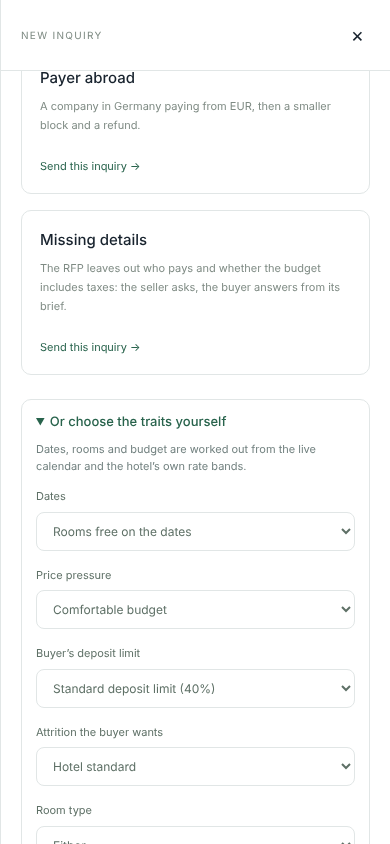
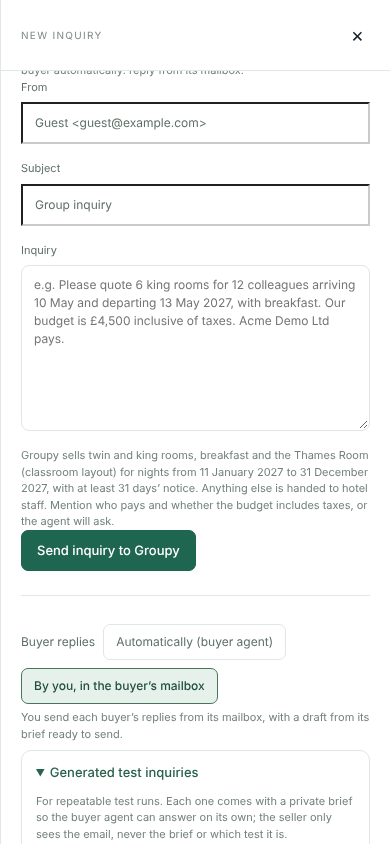
New inquiry: write your own first, fold presets, drop the traits form
The New inquiry drawer led with generated presets and a hand-picked traits
form ("dates too soon", "below the seller's floor"), which reads as if the
outcome were scripted. The seller never sees the preset or the buyer's
brief, but the layout didn't say so.

- "Write your own" is now first and open, labelled as the unscripted path.
- Buyer replies follows it (it also applies to the scenario buyers).
- The presets are folded under "Generated test inquiries", which explains
  that the brief is only for the buyer agent and the seller sees only the
  email.
- The "Or choose the traits yourself" form is removed from the UI. The API
  still accepts traits for scripted runs and tests.

ui/test/openflow.cjs follows the new layout: it checks the order, that
presets start folded, that there is no traits form, and that payer_abroad
is absent without GS_FX (it still expected that card after the FX flag).

Claude-Session: https://claude.ai/code/session_01PcBF2P5bNHufMJ87RHfk36

diff --git a/web/openflow.js b/web/openflow.js
@@ -76,38 +76,7 @@
     $('wbDrawerTitle').focus();
   }
 
-  // ---- New inquiry: generated (RFP + private buyer brief) or written by hand ----------------------------
-  const COUNTRIES = [['', 'United Kingdom (GBP)'], ['DE', 'Germany (EUR)'], ['FR', 'France (EUR)'], ['NL', 'Netherlands (EUR)'],
-    ['US', 'United States (USD)'], ['AU', 'Australia (AUD)'], ['SG', 'Singapore (SGD)'], ['JP', 'Japan (JPY)']];
-  const TRAIT_LABEL = {fits:'Rooms free on the dates', short_rooms:'Fewer rooms free than asked', too_soon:'Too soon to sell to a group',
-    comfortable:'Comfortable budget', tight:'Tight: at the seller’s floor', below_floor:'Below the seller’s floor'};
-  const opts = (name, values, pick) => `<select id="wbT_${name}">${values.map(([v, l]) => `<option value="${html(v)}" ${String(v)===String(pick ?? '')?'selected':''}>${html(l)}</option>`).join('')}</select>`;
-  function traitForm(c) {
-    const d = c.defaults, t = c.traits, pairs = k => t[k].map(v => [v, TRAIT_LABEL[v] || v]);
-    return `<details class="wb-traits"><summary>Or choose the traits yourself</summary>
-      <p class="wb-sub">Dates, rooms and budget are worked out from the live calendar and the hotel’s own rate bands.</p>
-      <div class="wb-terms">
-        <label class="wb-field">Dates${opts('availability', pairs('availability'), d.availability)}</label>
-        <label class="wb-field">Price pressure${opts('price', pairs('price'), d.price)}</label>
-        <label class="wb-field">Attrition the buyer wants${opts('attrition', [['', 'Hotel standard'], ['20', '20% (traded for a bigger deposit)']], d.attrition)}</label>
-        <label class="wb-field">Room type${opts('room_type', [['', 'Either'], ['twin', 'Twin'], ['king', 'King']], d.room_type)}</label>
-        ${window.FX ? `<label class="wb-field">Payer${opts('payer_country', COUNTRIES, d.payer_country)}</label>` : ''}
-        <label class="wb-field">Later change${opts('change_rooms', [['0', 'None'], ['1', '1 room fewer a night, then a refund'], ['2', '2 rooms fewer a night, then a refund']], d.change_rooms)}</label>
-        <label class="wb-field">Meeting room${opts('meeting', [['', 'Not needed'], ['1', 'Thames Room, one day']], d.meeting ? '1' : '')}</label>
-      </div>
-      <fieldset class="wb-missing"><legend>Leave out of the RFP (the seller has to ask)</legend>
-        ${t.missing.map(m => `<label><input type="checkbox" name="wbMissing" value="${html(m)}"> ${html({payer:'Who pays', taxes:'Whether the budget includes taxes', layout:'Meeting layout'}[m] || m)}</label>`).join('')}</fieldset>
-      <button class="wb-primary" type="button" id="wbCustom">Send this inquiry to Groupy</button></details>`;
-  }
-  function readTraits() {
-    const v = k => $('wbT_' + k).value, out = {availability: v('availability'), price: v('price'),
-      change_rooms: Number(v('change_rooms')), meeting: v('meeting') === '1',
-      missing: [...document.querySelectorAll('[name=wbMissing]:checked')].map(x => x.value)};
-    if (v('attrition')) out.attrition = Number(v('attrition'));
-    if (v('room_type')) out.room_type = v('room_type');
-    if ($('wbT_payer_country') && v('payer_country')) out.payer_country = v('payer_country');
-    return out;
-  }
+  // ---- New inquiry: written by hand (the main path), or a generated test inquiry with a private buyer brief ----
   function buyerToggle(mode) {
     return `<div class="wb-buyer-mode" role="group" aria-label="Who answers for the buyer">
       <span>Buyer replies</span>
@@ -118,41 +87,42 @@
   async function simulator() {
     showDrawer('Let the inquiry come to you.', '<p class="wb-lede">Loading inquiry types…</p>');
     try { catalog = await window.Harbour.presets(); }
-    catch (err) { $('wbDrawerBody').innerHTML='<h2 id="wbDrawerTitle" tabindex="-1">Let the inquiry come to you.</h2><p class="wb-lede">Couldn’t load the inquiry types. Write your own below instead.</p>' + thirdPartyForm() + ownForm(); wireOwn(); return; }
+    catch (err) { $('wbDrawerBody').innerHTML='<h2 id="wbDrawerTitle" tabindex="-1">Let the inquiry come to you.</h2><p class="wb-lede">Write a group inquiry the way a buyer would. (Generated test inquiries couldn’t be loaded.)</p>' + thirdPartyForm() + ownForm(); wireOwn(); return; }
     const S = actual(), b = S?.bookable;
     const cards = Object.keys(catalog.presets).map(k => { const i = catalog.info[k] || {title: k, shows: ''};
       return `<button class="wb-channel" data-preset="${html(k)}"><b>${html(i.title)}</b><p>${html(i.shows)}</p><span class="wb-channel-action">Send this inquiry →</span></button>`; }).join('');
-    showDrawer('Let the inquiry come to you.', `<p class="wb-lede">Send Groupy a generated group inquiry. Each one comes with a private brief for the buyer agent: its answers and goals, which the seller never sees. From the email on, the seller agent, the buyer agent and the backend’s rules take over${S?.provider==='airwallex' ? ', with real Airwallex sandbox payments' : ''}.</p>
-      ${buyerToggle(catalog.buyer_mode)}
+    showDrawer('Let the inquiry come to you.', `<p class="wb-lede">Write a group inquiry the way a buyer would. The seller agent reads it like any other email, and the backend’s rules decide what it can offer${S?.provider==='airwallex' ? ', with real Airwallex sandbox payments' : ''}.</p>
       ${thirdPartyForm()}
-      <label class="wb-field wb-seed">Seed (optional)<input id="wbSeed" inputmode="numeric" pattern="[0-9]*" placeholder="Leave blank for a new inquiry each time"></label>
-      <p class="wb-sub">The same seed sends the same inquiry against the same calendar. After a reset, reuse a seed to replay a run.</p>
-      <div class="wb-channel-grid">${cards}</div>
-      ${traitForm(catalog)}
-      ${ownForm(b)}`, 'NEW INQUIRY');
+      ${ownForm(b)}
+      ${buyerToggle(catalog.buyer_mode)}
+      <details class="wb-traits wb-generated"><summary>Generated test inquiries</summary>
+        <p class="wb-sub">For repeatable test runs. Each one comes with a private brief so the buyer agent can answer on its own; the seller only sees the email, never the brief or which test it is.</p>
+        <label class="wb-field wb-seed">Seed (optional)<input id="wbSeed" inputmode="numeric" pattern="[0-9]*" placeholder="Leave blank for a new inquiry each time"></label>
+        <p class="wb-sub">The same seed sends the same inquiry against the same calendar. After a reset, reuse a seed to replay a run.</p>
+        <div class="wb-channel-grid">${cards}</div>
+      </details>`, 'NEW INQUIRY');
     wireOwn();
-    $('wbCustom').onclick = () => generate({traits: readTraits()});
   }
   async function generate(body) {
     body.third_party = thirdPartyOptions();
     const seed = $('wbSeed')?.value.trim();
     if (seed && !/^\d+$/.test(seed)) { notify('The seed is a whole number, or leave it blank.'); return; }
     if (seed) body.seed = Number(seed);
-    document.querySelectorAll('[data-preset],#wbCustom').forEach(x => x.disabled = true);
+    document.querySelectorAll('[data-preset]').forEach(x => x.disabled = true);
     try {
       const r = await window.Harbour.generate(body);
       $('wbDrawer').close(); refresh(); window.Harbour.open(r.deal_id);
       notify(`Sent: ${presetTitle(r)} · seed ${r.seed}. Reuse the seed after a reset to replay it.`);
     } catch (err) {
       notify(err.message);
-      document.querySelectorAll('[data-preset],#wbCustom').forEach(x => x.disabled = false);
+      document.querySelectorAll('[data-preset]').forEach(x => x.disabled = false);
     }
   }
   function thirdPartyForm(){if(!window.Vendors)return '';return `<fieldset class="card"><legend>Third-party simulation</legend><label><input id="wbThirdParty" type="checkbox"> Needs third-party services</label><label class="wb-field">Service<select id="wbThirdPartyCategory">${['av','catering','meeting','rooms','technician','amenities'].map(c=>`<option value="${c}">${c}</option>`).join('')}</select></label><label><input id="wbThirdPartyQuote" type="checkbox" checked> Include a hypothetical quote response</label><p class="small muted">Creates a simulated preferred-provider request once stay dates are recorded. Review the quote, approve it and simulate confirmation in the inquiry’s third-party workspace. No provider is contacted.</p></fieldset>`;}
   function thirdPartyOptions(){return $('wbThirdParty')?.checked?{category:$('wbThirdPartyCategory').value,quote_response:$('wbThirdPartyQuote').checked}:null;}
   function ownForm(b) {
     const scope = b ? `for nights from ${longDate(b.first_night)} to ${longDate(b.last_night)}, with at least ${b.min_days_before_arrival} days’ notice` : 'for its bookable nights';
-    return `<form id="wbInbound"><h3>Or write your own</h3>
+    return `<form id="wbInbound"><h3>Write your own</h3>
         <p class="wb-sub">A real, unscripted RFP. It has no brief, so nobody answers for the buyer automatically: reply from its mailbox.</p>
         <label class="wb-field">From<input id="wbInquiryFrom" required maxlength="200" value="Guest <guest@example.com>"></label>
         <label class="wb-field">Subject<input id="wbInquirySubject" required maxlength="200" value="Group inquiry"></label>

diff --git a/web/openflow.css b/web/openflow.css
@@ -93,6 +93,8 @@ body:has(.wb-drawer[open]) { overflow:hidden; }
 .wb-demo-note { background:#f0f5ef; border:1px solid #dfe8da; color:#64765e; border-radius:7px; padding:12px 14px; font-size:11px; margin:16px 0; }
 .wb-terms { display:grid; grid-template-columns:1fr 1fr; gap:0 16px; }
 .wb-buyer-mode { display:flex; flex-wrap:wrap; align-items:center; gap:8px; font-size:12px; color:#5e7066; }
+#wbInbound { margin-bottom:28px; padding-bottom:24px; border-bottom:1px solid var(--line); }
+.wb-generated { margin-top:20px; }
 .wb-buyer-mode button { white-space:normal; text-align:left; }
 .wb-buyer-mode button[aria-pressed="true"] { background:#e7f1eb; border-color:#47765b; color:#1f4f3b; font-weight:550; }
 .wb-seed { margin:22px 0 0; max-width:320px; }

diff --git a/docs/OPENFLOW_UX.md b/docs/OPENFLOW_UX.md
@@ -21,16 +21,16 @@ static assets use explicit authenticated routes, not a directory-serving route.
 checks rooms and rates, asks for anything missing, quotes, asks the hotel manager only when a seller rule would
 be exceeded, and takes the deposit through Airwallex like any other deal. The drawer offers:
 
-- **Generated inquiries** (`POST /api/simulate/rfp`, see `src/agentbank/groupsales/generator.py`): one card
-  per preset, or traits chosen by hand (dates, price pressure, attrition, room
-  type, payer country, a later reduction, a meeting room, details left out of the RFP). Each inquiry comes
-  with a private brief for the buyer agent; the seller never sees it. An optional seed replays the same
-  inquiry against the same calendar, for example after a reset.
+- **Write your own**, first and open: a real, unscripted RFP (`POST /api/inbox`, the same intake as an email).
+  It has no brief, so nobody answers for the buyer automatically: reply from its mailbox.
+- **Generated test inquiries** (`POST /api/simulate/rfp`, see `src/agentbank/groupsales/generator.py`), folded
+  below it: one card per preset. Each inquiry comes with a private brief for the buyer agent; the seller never
+  sees it, or which preset it came from. An optional seed replays the same inquiry against the same calendar,
+  for example after a reset. The drawer has no hand-picked traits form; the API still accepts `traits` for
+  scripted runs and tests.
 - **Buyer replies**: automatically (the buyer agent answers for every buyer with a brief) or by you in the
   buyer's mailbox. This is the server's buyer mode. Approvals and
   paying the deposit always stay with a person.
-- **Write your own**: a real, unscripted RFP (`POST /api/inbox`, the same intake as an email). It has no
-  brief, so nobody answers for the buyer automatically.
 
 Generated rows show their preset and seed under the company name. The earlier browser-only simulator
 (its fixtures, fake approvals and deposits) has been removed: everything on the workbench comes from the
@@ -83,8 +83,8 @@ never point it at a deployed dashboard. The default target is port 8011;
 otherwise the test uses `/usr/bin/chromium` if present, then Playwright's browser.
 
 The browser test exercises connected detail/rules, the New inquiry drawer (presets loaded from the
-server, a seeded preset, a replayed seed being refused, traits chosen by hand, the buyer-mode switch and
-writing your own), search through polling, filters, payment-source labels, drawer keyboard focus and mobile
+server, "Write your own" shown first with the generated inquiries folded below it and no traits form, a seeded
+preset, a replayed seed being refused, the buyer-mode switch and writing your own), search through polling, filters, payment-source labels, drawer keyboard focus and mobile
 layout. It checks that the workbench only writes through `/api/simulate/rfp`, `/api/inbox` and
 `/api/settings`. Screenshots are saved below; the before image is rendered from `origin/main` on the same
 isolated backend.
